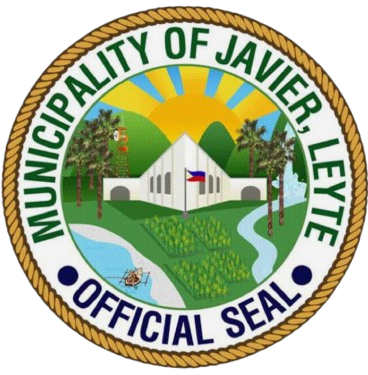
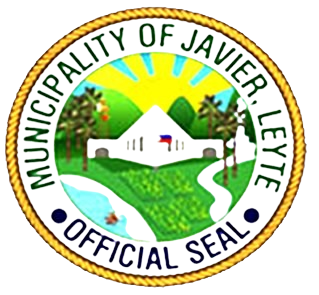
mayorga

diff --git a/templates/personal_information.html b/templates/personal_information.html
@@ -102,14 +102,25 @@
                 <label for="location">Ang checklist ay sinagutan sa:</label>
                 <select id="location" name="location" required>
                     <option value="" disabled selected>Pumili ng lokasyon</option>
-                    <option value="BHS Union AFHF">BHS Union AFHF</option>
+                    <!-- <option value="BHS Union AFHF">BHS Union AFHF</option>
                     <option value="RHU Mayorga">RHU Mayorga </option>
-                    <option value="Gandara AFHF">Gandara AFHF </option>
+                    <option value="Gandara AFHF">Gandara AFHF </option>1
                     <option value="RHU Gandara">RHU Gandara </option>
 
                     <option value="RHU Pagsanghan">RHU Pagsanghan </option>
                     <option value="Abuyog DH AFHF">Abuyog District Hospital AFHF</option>
-                    <option value="Gandara DH AFHF">Gandara District Hospital AFHF</option>
+                    <option value="Gandara DH AFHF">Gandara District Hospital AFHF</option> -->
+
+                    <option value="Gandara AFHF/RHU">Gandara AFHF/RHU</option>
+                    <option value="Pagsanghan AFHF/RHU">Pagsanghan AFHF/RHU</option>
+                    <option value="Matuguinao AFHF/RHU">Matuguinao AFHF/RHU</option>
+                    <option value="Gandara DH">Gandara District Hospital</option>
+                    <option value="BHS Union AFHF">BHS Union AFHF</option>
+                    <option value="Mayorga AFHF/RHU">Mayorga AFHF/RHU</option>
+                    <option value="MacArthur AFHF/RHU">MacArthur AFHF/RHU</option>
+                    <option value="Javier AFHF/RHU">Javier AFHF/RHU</option>
+                    <option value="Abuyog AFHF/RHU">Abuyog AFHF/RHU</option>
+                    <option value="Abuyog DH">Abuyog District Hospital</option>
 
                 </select>
             </div>

diff --git a/templates/thankyou.html b/templates/thankyou.html
@@ -24,7 +24,7 @@
     <footer class="footer">
         <img src="{{ url_for('static', filename='images/EU.png') }}" alt="Logo 1" class="logo large">
         <img src="{{ url_for('static', filename='images/STC.png') }}" alt="Logo 2" class="logo large">
-        <img src="{{ url_for('static', filename='images/SAMAR2.png') }}" alt="Logo 3" class="logo larger">
+        <img src="{{ url_for('static', filename='images/JAVIER.png') }}" alt="Logo 3" class="logo larger">
         <img src="{{ url_for('static', filename='images/CONTACT1.png') }}" alt="Logo 3" class="logolarger">
     </footer>
 </body>
